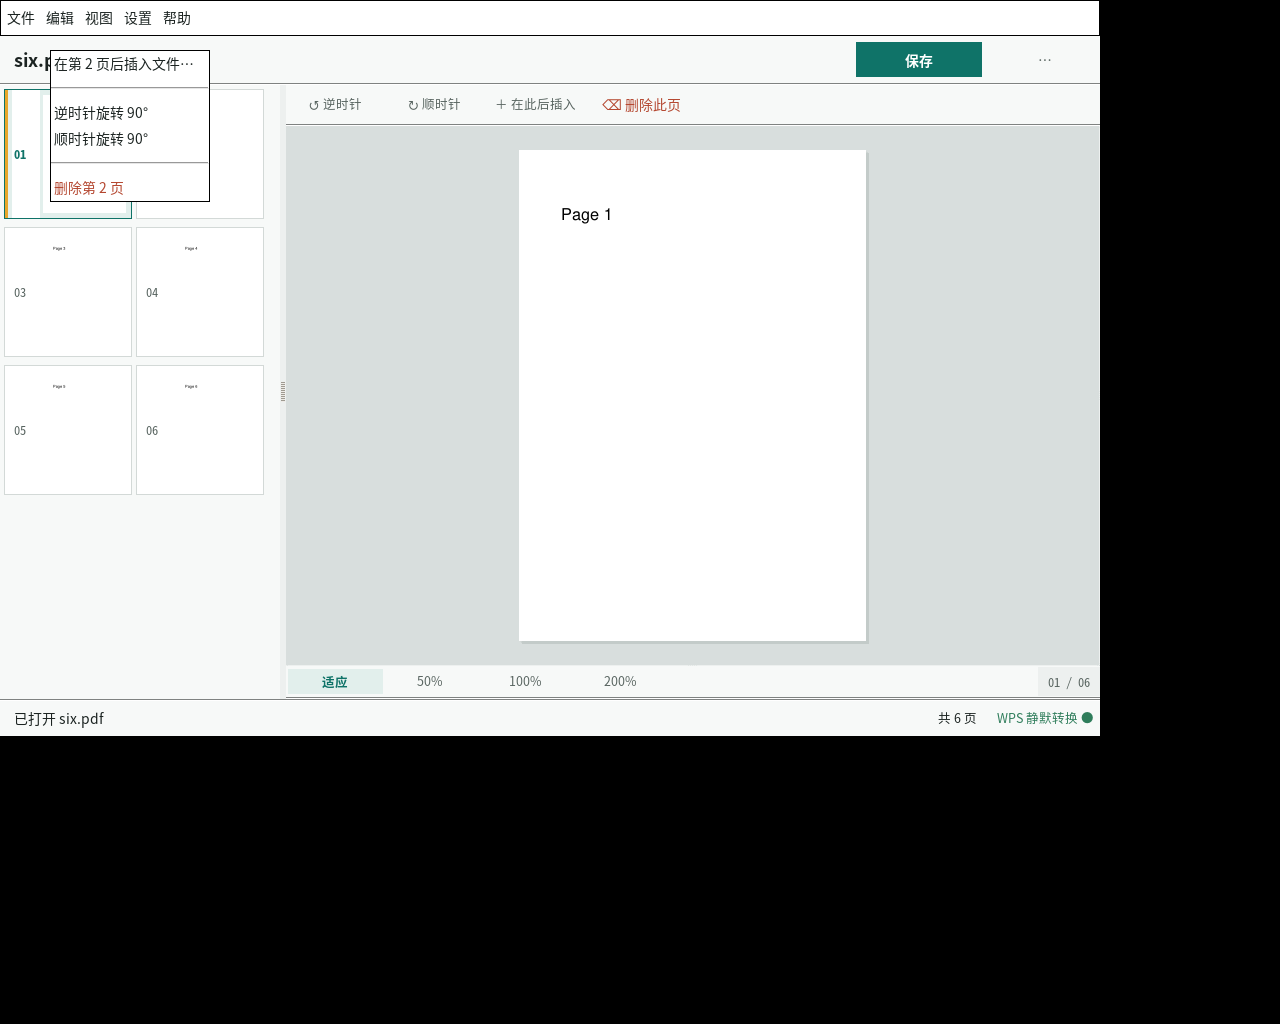
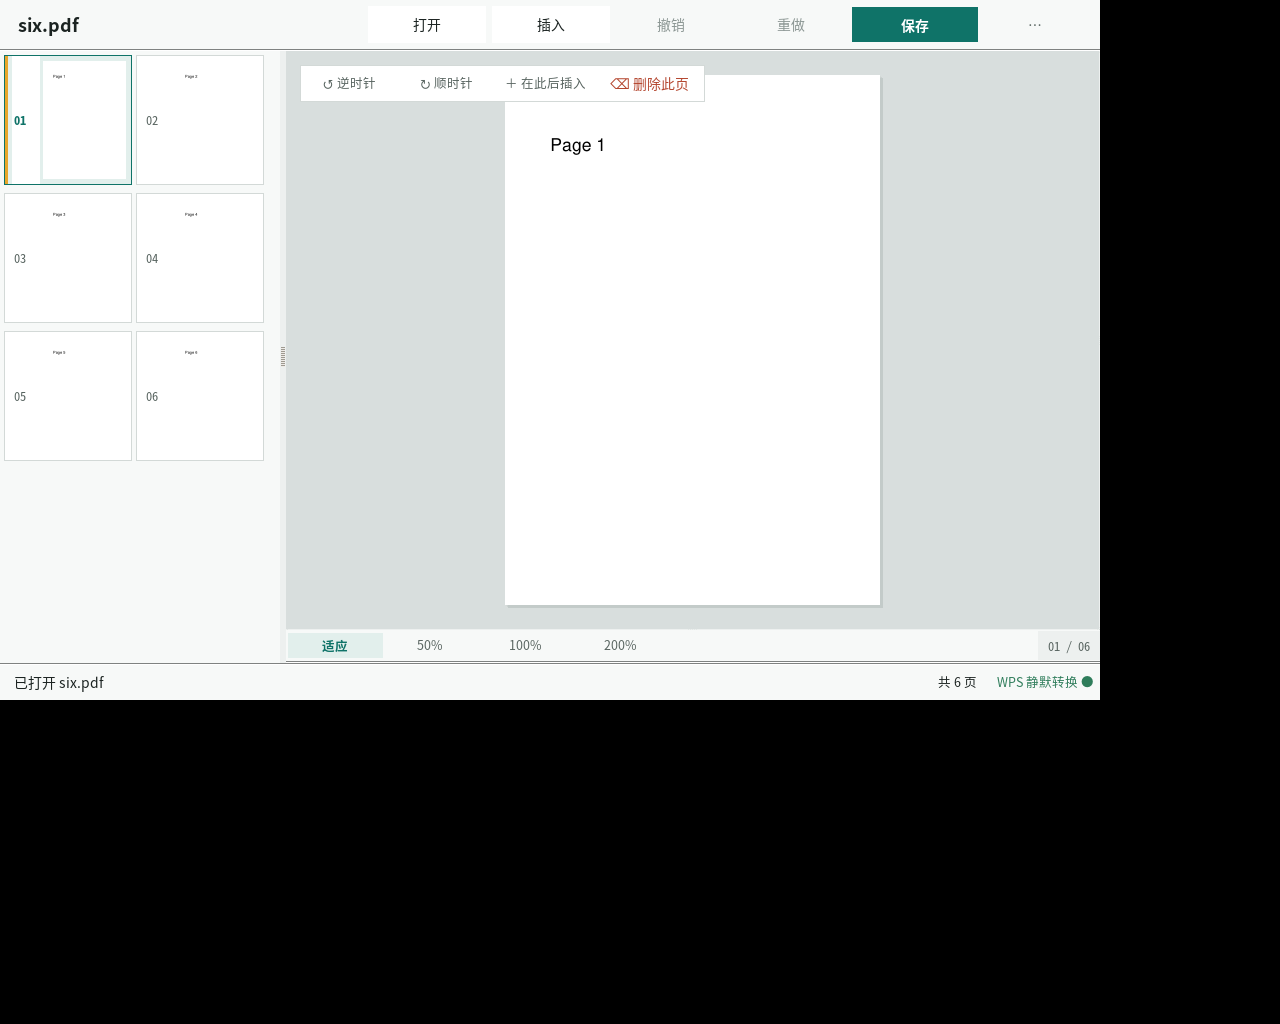
docs: document the single top bar, self-drawn menus and undo/redo

Changed region(s): [[0.0, 0.0, 0.875, 0.7188], [0.0, 0.0, 0.1875, 0.2188], [0.4375, 0.1875, 0.4688, 0.2188]]

diff --git a/docs/design-system.md b/docs/design-system.md
@@ -101,7 +101,12 @@
 
 ### 3.3 菜单
 
-三个菜单面（标题栏菜单、页面轨右键、预览区右键、`⋯` 溢出）共用一套**菜单语法**：
+> **结构决定**：早期版本有「文字菜单栏 + 文档标题栏」两条顶栏，命令重复、层级打架。
+> 现在**只有一条顶栏**（文档身份 + 常用动作 + `⋯` 溢出），所有低频命令集中在 `⋯` 浮层里。
+
+三个菜单面（顶栏 `⋯`、页面轨右键、预览区右键）共用一套**菜单语法**，并且是**自绘浮层**
+（`gui/menu.py` 的 `MenuPopover`）：纸白底、1px 细线、柔和投影、右对齐等宽快捷键列、
+危险项红色、悬停墨青底。`tk.Menu` 只能改颜色，做不出这套语言，所以弃用。
 
 1. 分组 ≤ 3 组、每组 ≤ 4 项，用分隔线分组。
 2. 文案动词开头、带上下文时写明对象（`在第 3 页后插入文件`）。
@@ -112,16 +117,16 @@
 
 `tk.Menu` 只能改颜色/字体/边框（无圆角、无阴影、不能调行高），外观靠 `gui/menu.py` 的 `style_menu()` 统一。右键菜单**单实例**，打开时用 `postcommand` 刷新页码文案。
 
-**标题栏菜单**（原生 menubar，压平配色）
+**顶栏 `⋯` 浮层**（原来的文字菜单栏已并入这里）
 
 ```
-文件   打开 PDF… Ctrl+O / 打开最近文件 ▸ / ─ / 保存 Ctrl+S / 另存为… Ctrl+Shift+S
-       / ─ / 页面信息… / ─ / 退出 Ctrl+Q
-编辑   在当前页后插入文件… Ctrl+I / ─ / 逆时针旋转 90° Ctrl+Shift+R / 顺时针旋转 90° Ctrl+R
-       / ─ / 删除当前页 Delete / ─ / 移到开头 / 移到结尾
-视图   适应宽度 Ctrl+0 / 实际大小 100% Ctrl+1 / 放大 200% Ctrl+2 / ─ / 显示页面轨 Ctrl+B
-设置   转换后端… Ctrl+,
-帮助   快捷键 Ctrl+/ / 关于本应用
+适应页面 Ctrl+0 / 实际大小 100% Ctrl+1 / 放大 200% Ctrl+2
+──
+页面信息… Ctrl+Shift+I / 重新载入文件
+──
+转换后端… Ctrl+,
+──
+快捷键 Ctrl+/ / 关于本应用
 ```
 
 **页面轨右键**：`在第 N 页后插入文件…` / ─ / `逆时针旋转 90°` / `顺时针旋转 90°` / ─ / `删除第 N 页`（危险）。
@@ -152,16 +157,24 @@
 ### 4.1 主界面
 
 ```
-┌ 文件  编辑  视图  设置  帮助 ────────────────────────────── 菜单栏(原生)
-├ report.pdf ●未保存                             [保存]  [⋯]  文档行 40px
+┌ report.pdf ●      [打开][插入][撤销][重做]            [保存]  [⋯] │ 顶栏 48px
 ├──────────┬──────────────────────────────────────────────────
-│ 01 ▨     │  ↺ ↻ ⌫ ＋在此后插入        适应│50│100│200  03/12 │ 预览工具行 32px
-│ 02 ▨     │        ┌────────────────────────┐                │
-│ ▌03 ▨    │        │      页面预览（纸白）     │                │
-│ 04 ▨     │        └────────────────────────┘                │
+│ 01 ▨     │  ┌ ↺逆时针 ↻顺时针 ＋在此后插入 ⌫删除此页 ┐          │ ← 浮在台面上
+│ 02 ▨     │  │        ┌────────────────────────┐    │          │
+│ ▌03 ▨    │  │        │      页面预览（纸白）     │    │          │
+│ 04 ▨     │  │        └────────────────────────┘    │          │
 ├──────────┴──────────────────────────────────────────────────
-│ 就绪 · 共 12 页                              WPS 静默转换 ● │ 状态条 26px
+│ 适应│50%│100%│200%                              03 / 12      │ 预览底栏 26px
+├──────────────────────────────────────────────────────────────
+│ 就绪                                       共 12 页  WPS ●   │ 状态条 26px
+└──────────────────────────────────────────────────────────────
 ```
+
+- **只有一条顶栏**：左边文档身份（名字 + 未保存琥珀点），右边常用动作（打开 / 插入 /
+  撤销 / 重做 / 保存 / `⋯`）。低频命令进 `⋯`。
+- **页面级动作浮在台面上**（白底小工具条），不是第二条窗口栏。
+- **撤销 / 重做**：基于快照，保留 5 步；`Ctrl+Z` / `Ctrl+Shift+Z`；不可用时按钮置灰；
+  状态条提示「已撤销（还能撤销 2 步）」。
 
 - 标题条与状态条两端对齐内容列；状态条左＝一句人话，右＝事实型信息，**不用竖线串联**。
 - 状态条只放文件名；完整路径进 tooltip 与「页面信息」面板。
@@ -255,7 +268,7 @@
 |---|---|---|---|
 | 1 | 文件选择框 | Tk 1994 英文框 | 自建快速入口面板 + 系统框兜底 |
 | 2 | 消息框 | Tk 红色禁止图标、英文 OK | 全部替换为 Toast / Confirm / Error 面板 |
-| 3 | 菜单栏 | 系统原生 | 保留原生，只压平配色 |
+| 3 | 菜单栏 | 系统原生 | **取消文字菜单栏**，命令并入顶栏 `⋯` 浮层（自绘） |
 | 4 | 滚动条 | ttk 默认带箭头 | 自定义无箭头细条 |
 | 5 | 进度 | 只有文字 + watch 光标 | 状态栏细进度条，预览保持可交互 |
 | 6 | 光标 | 零散 | 规则表（可点/可拖/等待/输入） |

diff --git a/docs/ui/README.md b/docs/ui/README.md
@@ -2,9 +2,10 @@
 
 | 文件 | 界面 |
 |---|---|
-| `01-工作台.png` | 打开文档后的主界面：页面轨、预览台、文档行、状态条 |
+| `01-工作台.png` | 主界面：单条顶栏 + 页面轨 + 台面 + 浮在台面上的页面动作 |
 | `02-空状态.png` | 没有打开文档时的空状态 |
 | `03-快速入口面板.png` | 插入文件：常用位置（含「当前文档所在文件夹」）+ 多选 |
 | `04-插入位置.png` | 插入位置：当前页之后 / 文末 / 指定页 |
 | `05-确认面板.png` | 破坏性操作确认 |
 | `06-错误面板.png` | 错误提示（含诊断详情与复制） |
+| `07-菜单浮层.png` | 自绘菜单浮层（顶栏 `⋯`） |
